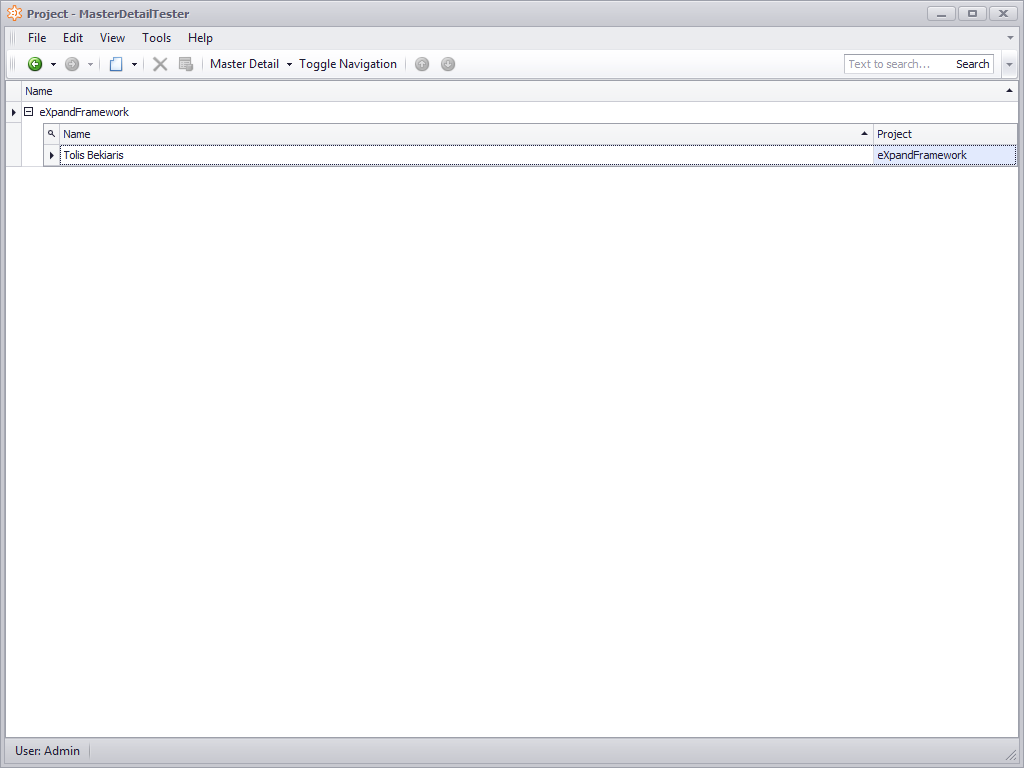
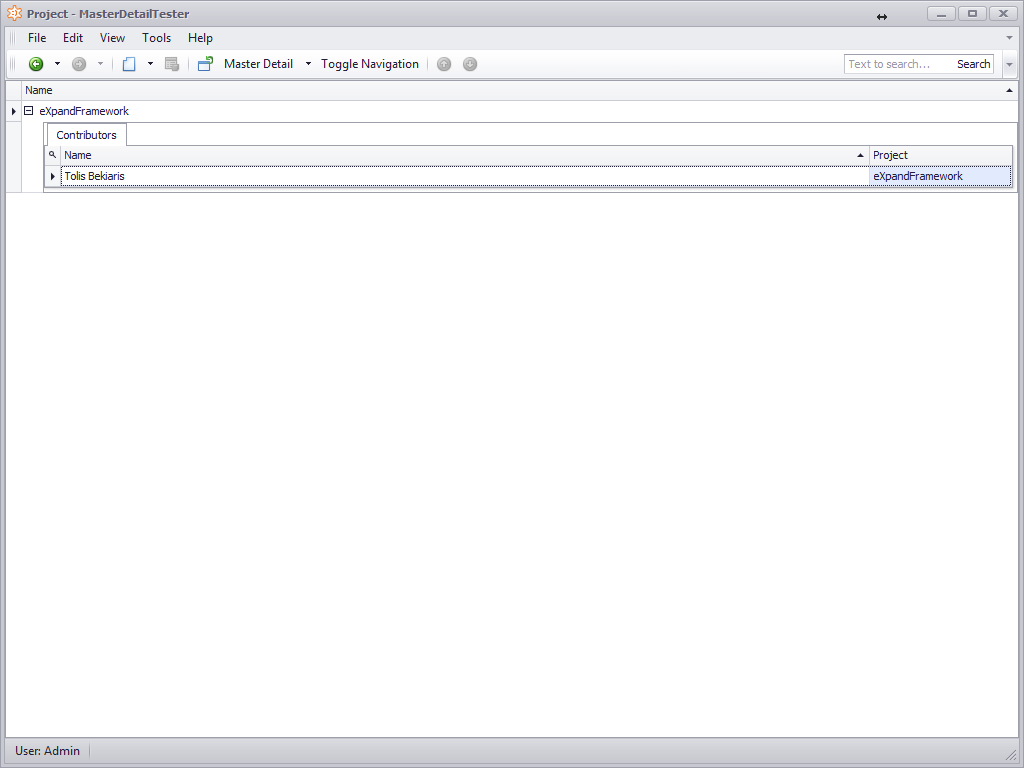
when listview evaluate criteria of logic modules on the first selected object
http://www.expandframework.com/forum/8-discussion/4841-hide-masterdetail-tab-of-specific-child-detail-based-on-permission.html#10150

Changed region(s): [[0.0, 0.0625, 1.0, 0.25], [0.9375, 0.0625, 0.9688, 0.0938]]

diff --git a/Xpand/Xpand.ExpressApp.Modules/Logic/LogicRuleExecutor.cs b/Xpand/Xpand.ExpressApp.Modules/Logic/LogicRuleExecutor.cs
@@ -10,9 +10,7 @@ namespace Xpand.ExpressApp.Logic {
         public event EventHandler<LogicRuleExecutingEventArgs> LogicRuleExecuting;
         public event EventHandler<LogicRuleExecuteEventArgs> LogicRuleExecute;
 
-        public LogicRuleEvaluator Evaluator {
-            get { return _evaluator; }
-        }
+        public LogicRuleEvaluator Evaluator => _evaluator;
 
         public virtual void Execute<T>(View view, bool invertCustomization, ExecutionContext executionContext,
             object currentObject, EventArgs eventArgs) where T:ILogicRule{
@@ -47,7 +45,7 @@ namespace Xpand.ExpressApp.Logic {
 
         protected virtual void OnLogicRuleExecute(LogicRuleExecuteEventArgs e) {
             EventHandler<LogicRuleExecuteEventArgs> handler = LogicRuleExecute;
-            if (handler != null) handler(this, e);
+            handler?.Invoke(this, e);
         }
 
         public void InvertExecution(View view, ExecutionContext executionContext, object currentObject,EventArgs eventArgs) {
@@ -64,18 +62,14 @@ namespace Xpand.ExpressApp.Logic {
         }
 
 
-        protected virtual void OnLogicRuleExecuting(LogicRuleExecutingEventArgs args) {
-            if (LogicRuleExecuting != null) {
-                LogicRuleExecuting(this, args);
-            }
+        protected virtual void OnLogicRuleExecuting(LogicRuleExecutingEventArgs args){
+            LogicRuleExecuting?.Invoke(this, args);
         }
 
         protected virtual void OnLogicRuleExecuted(LogicRuleExecuteEventArgs args) {
             if (args.LogicRuleInfo.Rule.IsNew.HasValue)
                 Evaluator.IsNew = false;
-            if (LogicRuleExecuted != null) {
-                LogicRuleExecuted(this, args);
-            }
+            LogicRuleExecuted?.Invoke(this, args);
         }
 
         public void Execute<T>(ExecutionContext executionContext, View view) where T : ILogicRule{
@@ -83,7 +77,12 @@ namespace Xpand.ExpressApp.Logic {
         }
 
         public void Execute<T>(ExecutionContext executionContext, View view, EventArgs eventArgs) where T:ILogicRule{
-            Execute<T>(view, false, executionContext, view != null ? view.CurrentObject : null, eventArgs);
+            Execute<T>(view, false, executionContext, GetCurrentObject(view), eventArgs);
+        }
+
+        private object GetCurrentObject(View view){
+            var listView = view as ListView;
+            return listView != null ? listView.SelectedObjects.Cast<object>().FirstOrDefault() : view?.CurrentObject;
         }
 
         internal void Execute(ExecutionContext executionContext, View view, EventArgs eventArgs) {

diff --git a/Xpand/Xpand.ExpressApp.Modules/Logic/LogicRuleViewController.cs b/Xpand/Xpand.ExpressApp.Modules/Logic/LogicRuleViewController.cs
@@ -16,9 +16,7 @@ namespace Xpand.ExpressApp.Logic {
         XafApplication _application;
         ListViewProcessCurrentObjectController _listViewProcessCurrentObjectController;
 
-        public LogicRuleExecutor LogicRuleExecutor {
-            get { return _logicRuleExecutor; }
-        }
+        public LogicRuleExecutor LogicRuleExecutor => _logicRuleExecutor;
 
         protected override void OnFrameAssigned() {
             base.OnFrameAssigned();
@@ -123,7 +121,7 @@ namespace Xpand.ExpressApp.Logic {
             var actionBases = Enumerable.Empty<ActionBase>();
             var modelLogicWrappers = ModelLogics.Where(wrapper => wrapper.ActionExecutionContextGroup != null);
             var actionExecutionContextGroups = modelLogicWrappers.SelectMany(logic => logic.ActionExecutionContextGroup);
-            return actionExecutionContextGroups.SelectMany(@group => @group, (@group, executionContext)
+            return actionExecutionContextGroups.SelectMany(group => @group, (@group, executionContext)
                 => executionContext.Name).Aggregate(actionBases, (current, actionContexts)
                 => current.Union(Frame.Controllers.Cast<Controller>().SelectMany(controller => controller.Actions).Where(@base
                     => actionContexts.Contains(@base.Id)&&@base.Active&&@base.Enabled)));

diff --git a/Demos/Modules/MasterDetail/MasterDetailTester.Module.Win/FunctionalTests/Project.cs b/Demos/Modules/MasterDetail/MasterDetailTester.Module.Win/FunctionalTests/Project.cs
@@ -18,8 +18,23 @@ namespace MasterDetailTester.Module.Win.FunctionalTests{
         public XPCollection<Contributor> Contributors{
             get { return GetCollection<Contributor>("Contributors"); }
         }
+
+        [Association("Project-Developers")]
+        public XPCollection<Developer> Developers => GetCollection<Developer>(nameof(Developers));
     }
 
+    public class Developer:BaseObject{
+        public Developer(Session session) : base(session){
+        }
+
+        Project _project;
+
+        [Association("Project-Developers")]
+        public Project Project{
+            get { return _project; }
+            set { SetPropertyValue(nameof(Project), ref _project, value); }
+        }
+    }
     public interface ISupportMasterDetail{
     }
 

diff --git a/Xpand/Xpand.ExpressApp.Modules/MasterDetail/Logic/MasterDetailRuleController.cs b/Xpand/Xpand.ExpressApp.Modules/MasterDetail/Logic/MasterDetailRuleController.cs
@@ -31,8 +31,7 @@ namespace Xpand.ExpressApp.MasterDetail.Logic {
 
         protected override void OnDeactivated() {
             base.OnDeactivated();
-            if (_masterDetailRules!=null)
-                _masterDetailRules.Clear();
+            _masterDetailRules?.Clear();
         }
 
         void LogicRuleViewControllerOnLogicRuleExecute(object sender, LogicRuleExecuteEventArgs logicRuleExecuteEventArgs) {
@@ -50,10 +49,7 @@ namespace Xpand.ExpressApp.MasterDetail.Logic {
             }
         }
 
-        public List<IMasterDetailRule> MasterDetailRules {
-            get { return _masterDetailRules; }
-        }
-
+        public List<IMasterDetailRule> MasterDetailRules => _masterDetailRules;
     }
 
 }
